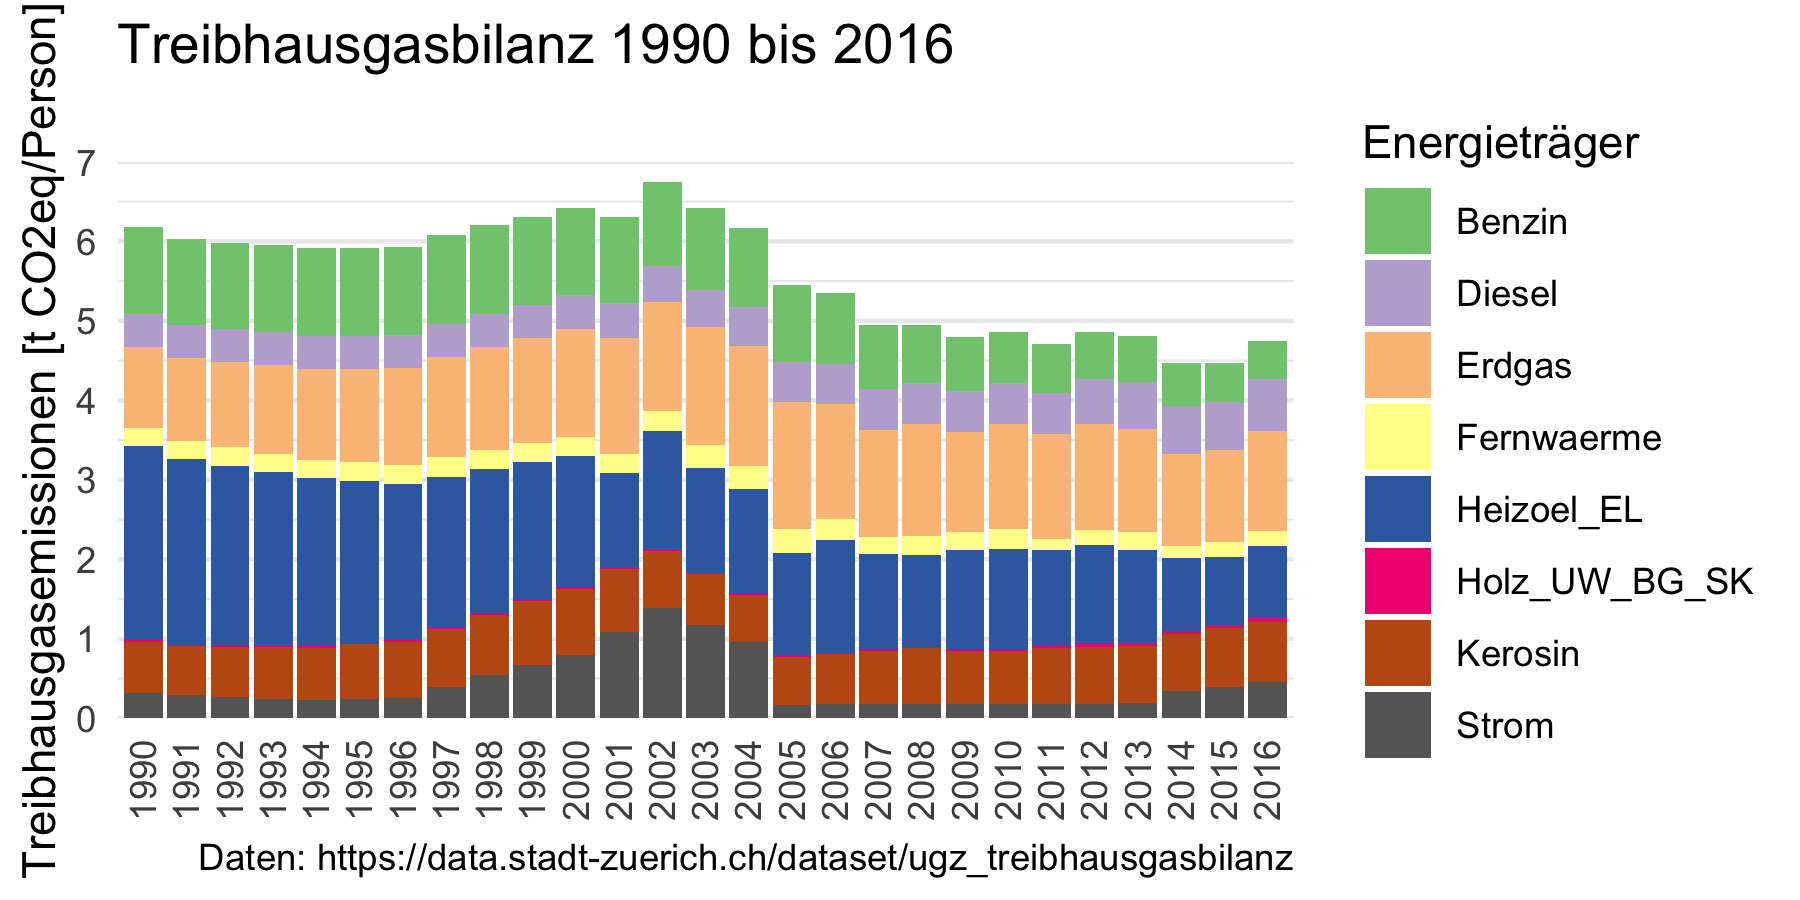
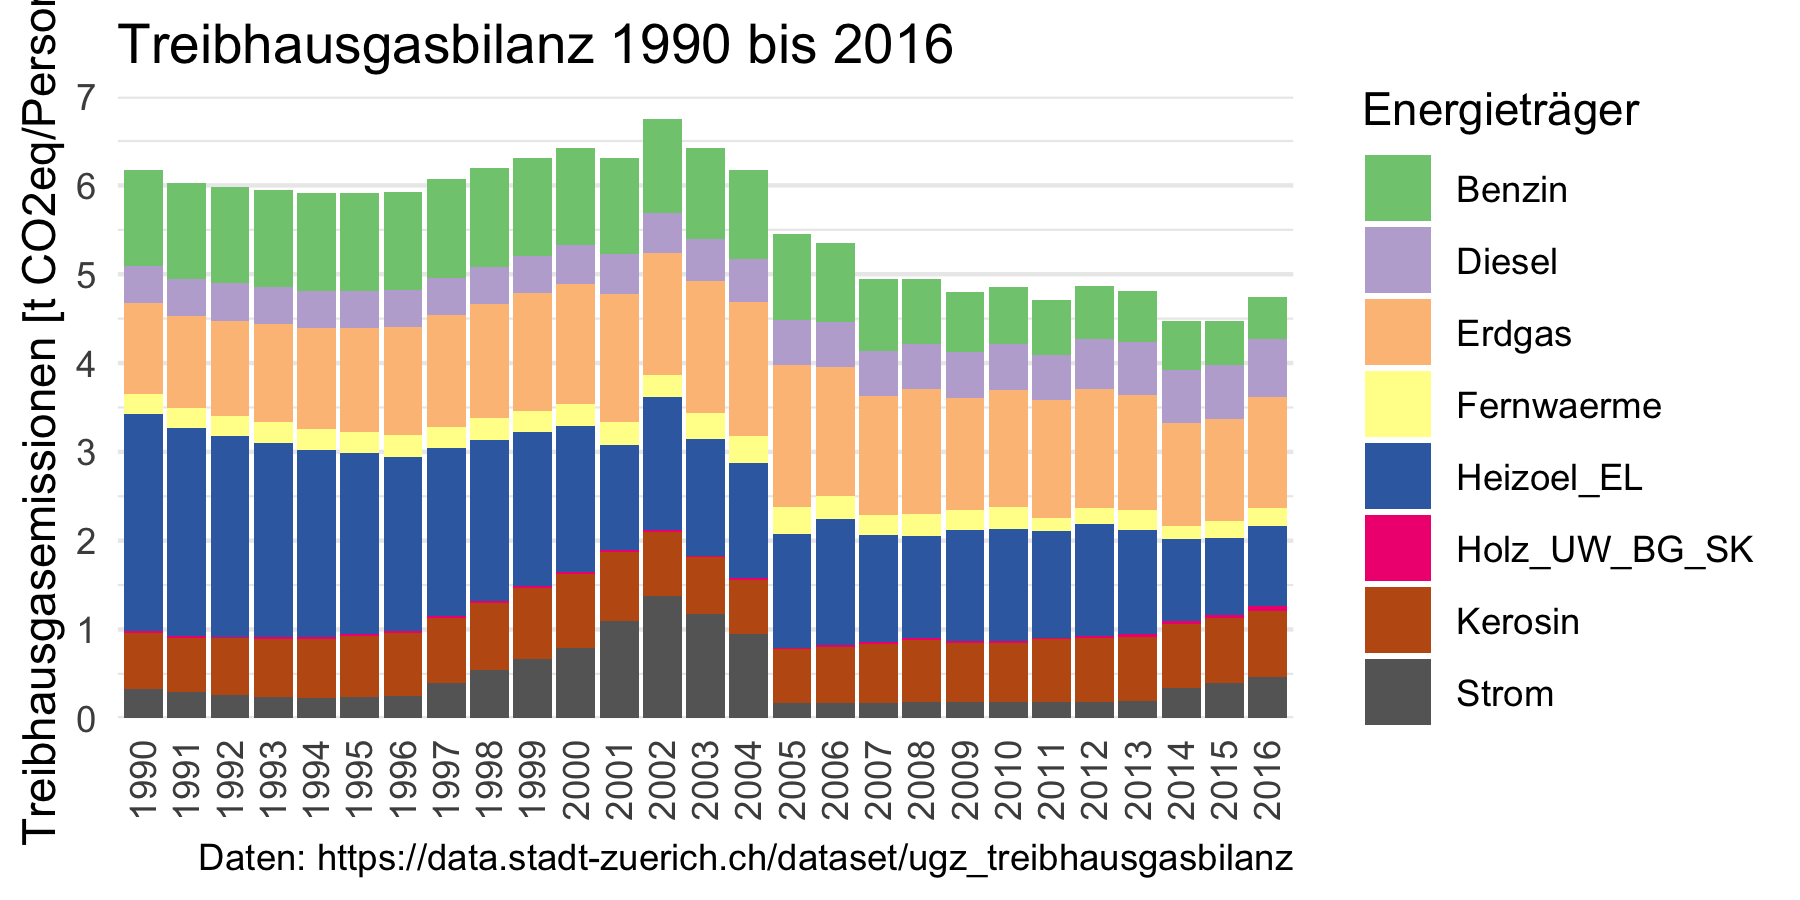
Folien für Woche 6

diff --git a/slides/e1_d06-data-import-tidy/e1_d06-data-import-tidy.html b/slides/e1_d06-data-import-tidy/e1_d06-data-import-tidy.html
@@ -50,18 +50,41 @@ class: title-slide
 ---
 # Rückblick - Woche 5
 
+- Git / GitHub
+   - push / pull
+   - fork
+- Vektoren
+   - logical
+   - double
+   - integer
+   - character
+- Funktionen zum Umgang mit einem Datum
+   - `lubridate::ymd()`
+   - `readr::parse_date()`
+- Visualisierungen
+   - Verbundene Streudiagramm
+   - `geom_point()` + `geom_path()`
 
 ---
+class: middle, inverse
+
 # Hausaufgabe 5 
 
-- ??
+---
+# Hausaufgabe 5
 
+.questione[Gibt es Fragen?]
 
 ---
 # Ziele für diese Woche
 
 Am Ende dieser Woche könnt ihr:
 
+- Daten aus verschiedenen Formaten in R importieren
+- Mittels SQL mit Daten in R Markdown arbeiten
+- Erkennen wann es notwendig ist Datums- und Zeitwerte aus Rohdaten in R selbst zu codieren
+- Daten aus einem weiten Format in ein langes Format bringen, und umgekehrt
+- Erkennen ob Daten als Tidy data klassifiert werden können 
 
 ---
 .note[
@@ -790,7 +813,7 @@ background-size: contain
 
 # Pause 
 
-<div class="countdown" id="timer_607c4013" style="right:0;bottom:0;left:0;margin:5%;padding:15px;font-size:4em;" data-warnwhen="0">
+<div class="countdown" id="timer_607fe3b1" style="right:0;bottom:0;left:0;margin:5%;padding:15px;font-size:4em;" data-warnwhen="0">
 <code class="countdown-time"><span class="countdown-digits minutes">10</span><span class="countdown-digits colon">:</span><span class="countdown-digits seconds">00</span></code>
 </div>
 
@@ -1213,11 +1236,8 @@ ggplot(data = ghg_tidy,                            # Daten im neuen Format
    
    # Plot Styling ab hier 
    scale_fill_brewer(type = "qual", palette = 1) +
-   scale_y_continuous(breaks = seq(0, 7, 1), 
-                      expand = c(0, 0), 
-                      limits = c(0, 7)) + 
+   scale_y_continuous(breaks = seq(0, 7, 1), expand = c(0, 0), limits = c(0, 7)) + 
    labs(title = "Treibhausgasbilanz 1990 bis 2016",
-        subtitle = "",
         y = "Treibhausgasemissionen [t CO2eq/Person]",
         x = NULL,
         caption = "Daten: https://data.stadt-zuerich.ch/dataset/ugz_treibhausgasbilanz",
@@ -1233,141 +1253,7 @@ ggplot(data = ghg_tidy,                            # Daten im neuen Format
 ]
 ]
 
----
-# Warum Tidy data? Warum pivoting?
 
-.panelset[
-
-.panel[.panel-name[Code]
-
-```r
-ghg_tidy &lt;- ghg %&gt;% 
-   pivot_longer(
-      cols = Strom:Heizoel_EL,     # Variablen von Strom bis Heizoel_EL
-      names_to = "Energietraeger", # Variablen Namen -&gt; Neue Spalte Energietraeger
-      values_to = "Emissionen"     # Variablen Werte -&gt; Neue Spalte Emissionen
-   ) %&gt;% 
-*  group_by(Jahr) %&gt;%
-*  mutate(Prozent = Emissionen / sum(Emissionen) * 100)
-```
-]
-
-.panel[.panel-name[Data]
-
-]
-]
-
----
-.panelset[
-
-.panel[.panel-name[Code]
-
-```r
-ggplot(data = ghg_tidy,                            # Daten im neuen Format
-       mapping = aes(x = Jahr,                     # Bestehende Variable Jahr
-                     y = Prozent,                  # Neue Variable Prozent
-                     fill = Energietraeger))  +    # Energieträger als Farben
-   geom_area() +                                   # Neues Geom
-   
-   # Plot Styling ab hier 
-   scale_fill_brewer(type = "qual", palette = 1) +
-   scale_x_continuous(breaks = seq(1990, 2016, 1), 
-                      expand = c(0, 0),
-                      limits = c(1990, 2016)) +
-   scale_y_continuous(expand = c(0, 0)) +
-   labs(title = "Treibhausgasbilanz 1990 bis 2016",
-        y = "Treibhausgasemissionen [Prozent]",
-        x = NULL,
-        caption = "Daten: https://data.stadt-zuerich.ch/dataset/ugz_treibhausgasbilanz",
-        fill = "Energieträger") +
-   theme_minimal()   +
-   theme(panel.grid = element_blank(),
-         axis.text.x = element_text(angle = 90, vjust = 0.5, hjust = 10))
-```
-]
-
-.panel[.panel-name[Plot]
-&lt;img src="e1_d06-data-import-tidy_files/figure-html/unnamed-chunk-58-1.png" width="100%" style="display: block; margin: auto;" /&gt;
-]
-]
-
----
-# Warum Tidy data? Warum pivoting?
-
-
-
-
-
-.panelset[
-
-.panel[.panel-name[Code]
-
-```r
-ghg_tidy &lt;- ghg %&gt;% 
-   pivot_longer(
-      cols = Strom:Heizoel_EL,     # Variablen von Strom bis Heizoel_EL
-      names_to = "Energietraeger", # Variablen Namen -&gt; Neue Spalte Energietraeger
-      values_to = "Emissionen"     # Variablen Werte -&gt; Neue Spalte Emissionen
-   ) %&gt;% 
-*  group_by(Jahr) %&gt;%
-*  mutate(Prozent = Emissionen / sum(Emissionen) * 100) %&gt;%
-*  ungroup() %&gt;%
-*  filter(Jahr == max(Jahr) | Jahr == min(Jahr))
-```
-]
-
-.panel[.panel-name[Data]
-
-]
-]
-
-
----
-.panelset[
-
-.panel[.panel-name[Code]
-
-```r
-ggplot(data = ghg_tidy,                            # Daten im neuen Format
-       mapping = aes(x = Jahr,                     # Nur 1990 und 2016
-                     y = Prozent,                  # Neue Variable Prozent
-                     color = Energietraeger))  +   # Energieträger als Farben
-   
-*  geom_line(size = 1) +
-*  geom_point(size = 5) +
-   
-   # Plot Styling ab hier  
-   labs(title = "Treibhausgasbilanz 1990 und 2016",
-        y = "Treibhausgasemissionen [Prozent]",
-        x = NULL,
-        caption = "Daten: https://data.stadt-zuerich.ch/dataset/ugz_treibhausgasbilanz",
-        fill = "Energieträger") +
-   scale_x_continuous(limits = c(1990, 2016), 
-                      breaks = c(1990, 2016)) +
-   scale_color_brewer(type = "qual") +
-   theme_minimal() +
-   theme(panel.grid.minor = element_blank())
-```
-]
-
-.panel[.panel-name[Plot]
-&lt;img src="e1_d06-data-import-tidy_files/figure-html/unnamed-chunk-61-1.png" width="100%" style="display: block; margin: auto;" /&gt;
-]
-]
-
----
-class: left
-background-image: url(img/coffee-break.jpg)
-background-position: right
-background-size: contain
-
-# Pause 
-
-<div class="countdown" id="timer_607c4081" style="right:0;bottom:0;left:0;margin:5%;padding:15px;font-size:4em;" data-warnwhen="0">
-<code class="countdown-time"><span class="countdown-digits minutes">10</span><span class="countdown-digits colon">:</span><span class="countdown-digits seconds">00</span></code>
-</div>
-
-.footnote[Photo by: [Blake Wisz](https://unsplash.com/@blakewisz)]
 
 
 ---
